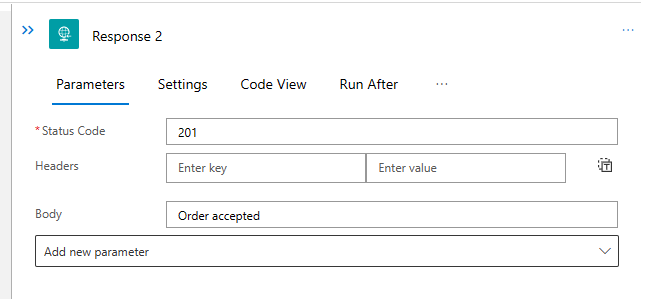
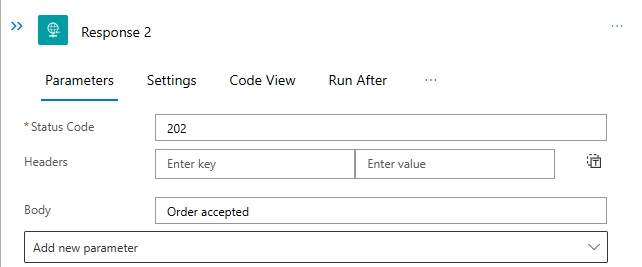
c8

diff --git a/xxx-LogicAppsEnterpriseIntegration/Student/Challenge-07.md b/xxx-LogicAppsEnterpriseIntegration/Student/Challenge-07.md
@@ -17,18 +17,19 @@ The architecture of the solution is as follows:
 - Review the code for the pseudo-SAP order system (especially how to call it)
   - Look in the `src/api` directory
   - Try to call the endpoint that is deployed to Azure using Postman to get a feel for how to call it
+    - `POST https://<function-app-name>.azurewebsites.net/api/SAPOrderSystem?orderName=order1`
 - Enable `EasyAuth` on the Azure Function to simulate having to authenticate against an OAuth2 endpoint to get an SAP order number
   - Use the `Microsoft` identity provider (which will automatically create an app registration in your tenant)
   - Enable the `HTTP 401 Unauthorized: recommended for APIs` option
   - Copy the `App (client) ID` for use later.
-- Get the following info out of Azure Active Directory so you can assign the managed identity access to call your Function App
+- Get the following info out of `Azure Active Directory` so you can assign the `Managed Identity` access to call your `Function App`
   - The `Object ID` of the `Enterprise App` (service principal) that was created when you enabled `EasyAuth` on the Function App (same name as the Function App)
 - Get the `Object ID` of the `Managed Identity` that was created by the deployment script
-- Grant the Managed Identity access to call the Azure Function
+- Grant the `Managed Identity` access to call the `Azure Function`
 - Modify the `sql` Logic App workflow to call out to the Azure Function to get the SAP order number
   - Add a `HTTP` action to the workflow & call the Azure Function (using `Managed identity` authentication)
-  - Add a `Parse JSON` action to parse the results of the call to the SAP order number function
-  - Add the results of the call to the SAP order number system to the row that is being inserted into the database
+  - Add a `Parse JSON` action to parse the `body` results of the call to the SAP order number function
+  - Add the results of the call to the SAP order number system to the row that is being inserted into the database (the `SAPOrderId` column)
 
 You can view an architectural diagram of an IoT thingamajig here: [Thingamajig.PDF](/Student/Resources/Architecture.PDF?raw=true).
 

diff --git a/xxx-LogicAppsEnterpriseIntegration/Student/Challenge-05.md b/xxx-LogicAppsEnterpriseIntegration/Student/Challenge-05.md
@@ -12,7 +12,7 @@ In this challenge, you will add validation to the `json` workflow to ensure that
 
 - Add a `required` field to the `json` workflow `Parse JSON` action schema to validate that the required JSON body values are specified
 - Add a parallel branch after the `Parse JSON` action to handle valid & invalid input data
-  - Valid input data should put a message on the Service Bus as before, but with an additional `Response` action afterwards indicated to the caller that the message was accepted (HTTP 202).
+  - Valid input data should put a message on the Service Bus as before, but with an additional `Response` action afterwards indicated to the caller that the message was accepted (HTTP `202`).
     - Ensure the `Run After` tab on the `Send message` action is set to `Parse JSON is successful`
   - Invalid input data should return a `Response` action with a `400` status code & a `body` message indicating the error
     - Ensure the `Run After` tab on the `Response` action is set to `Parse JSON has failed`

diff --git a/xxx-LogicAppsEnterpriseIntegration/Student/Challenge-08.md b/xxx-LogicAppsEnterpriseIntegration/Student/Challenge-08.md
@@ -26,3 +26,6 @@ To complete this challenge successfully, you should be able to:
 - [Logic Apps in Azure DevOps](https://learn.microsoft.com/en-us/azure/logic-apps/set-up-devops-deployment-single-tenant-azure-logic-apps?tabs=azure-devops)
 
 ## Tips
+- You may have to open a new VS Code instance and just open the `src/logic` directory for the Logic App extension to work correctly.
+- Select the `Content and Visual Studio project` and `Include app settings in the download`.
+- Note that connectors that use `Managed Identity` may not work correctly in VS Code.

diff --git a/xxx-LogicAppsEnterpriseIntegration/Student/Challenge-00.md b/xxx-LogicAppsEnterpriseIntegration/Student/Challenge-00.md
@@ -88,6 +88,14 @@ If any part of this script fails (missing dependencies, network issues, etc), yo
     az deployment sub create --location SouthCentralUS --template-file ./main.bicep --parameters ./main.parameters.json
     ```
 
+1.  Deploy the Function App code.
+
+    ```shell
+    cd ../src/api
+
+    func azure functionapp publish <function-app-name> --nozip
+    ```
+
 ## Success Criteria
 
 To complete this challenge successfully, you should be able to:
